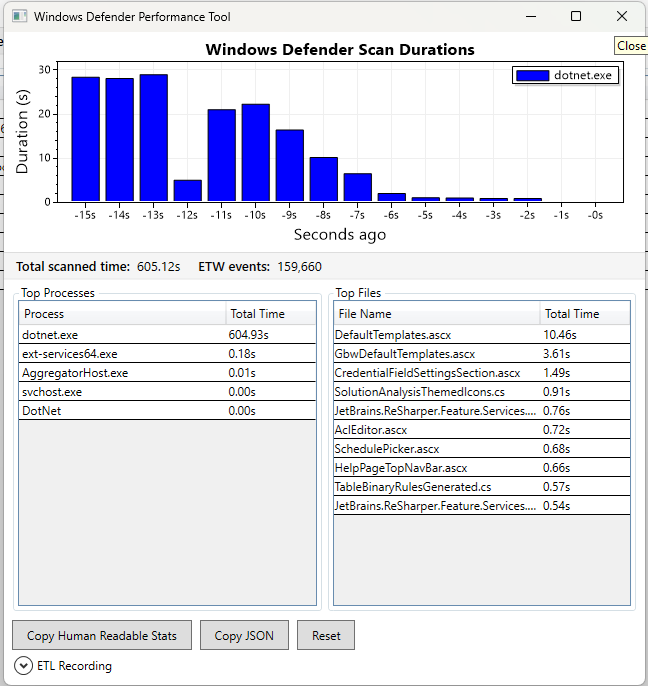
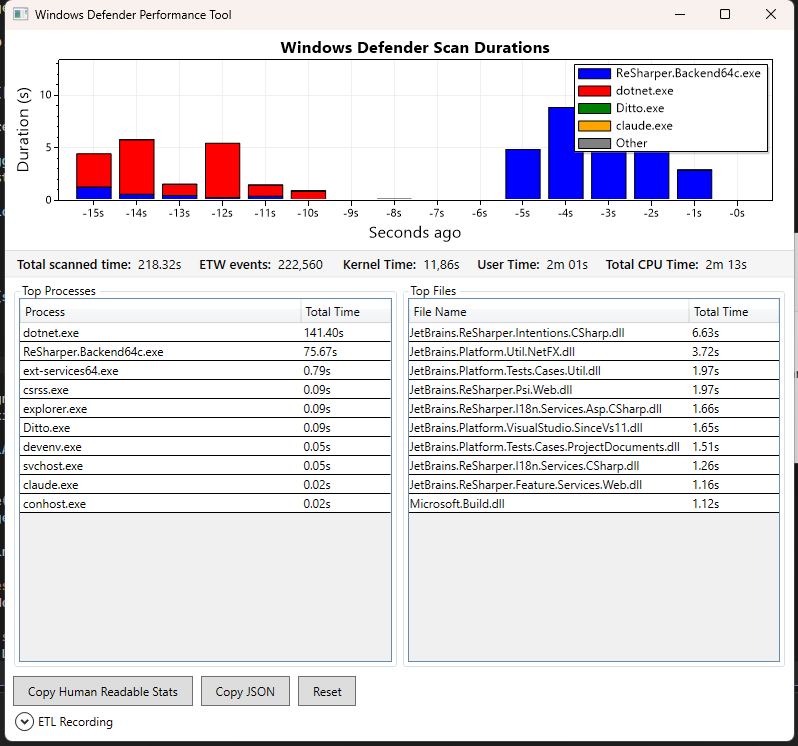
New feature: show CPU time

Changed region(s): [[0.0, 0.0, 1.0, 1.0], [0.8642, 0.0, 0.9259, 0.0306]]

diff --git a/src/MainWindow.xaml b/src/MainWindow.xaml
@@ -53,12 +53,51 @@
                     </StackPanel>
                 </Button>
 
-                <TextBlock FontSize="13" VerticalAlignment="Center">
-                    <Run Text="Total scanned time: " FontWeight="SemiBold"/>
-                    <Run Text="{Binding TotalScannedSeconds, StringFormat='{}{0:F2}s', Mode=OneWay}"/>
-                    <Run Text="    ETW events: " FontWeight="SemiBold"/>
-                    <Run Text="{Binding TotalEventsProcessed, StringFormat='{}{0:N0}', Mode=OneWay}"/>
-                </TextBlock>
+                <StackPanel Orientation="Horizontal" VerticalAlignment="Center">
+                    <TextBlock FontSize="13">
+                        <Run Text="Total scanned time: " FontWeight="SemiBold"/>
+                        <Run Text="{Binding TotalScannedSeconds, StringFormat='{}{0:F2}s', Mode=OneWay}"/>
+                        <Run Text="    ETW events: " FontWeight="SemiBold"/>
+                        <Run Text="{Binding TotalEventsProcessed, StringFormat='{}{0:N0}', Mode=OneWay}"/>
+                    </TextBlock>
+
+                    <!-- MsMpEng CPU times (shown when process is running and accessible) -->
+                    <TextBlock FontSize="13" Margin="20,0,0,0">
+                        <TextBlock.Style>
+                            <Style TargetType="TextBlock">
+                                <Setter Property="Visibility" Value="Collapsed"/>
+                                <Style.Triggers>
+                                    <DataTrigger Binding="{Binding CpuTimesAvailable}" Value="True">
+                                        <Setter Property="Visibility" Value="Visible"/>
+                                    </DataTrigger>
+                                </Style.Triggers>
+                            </Style>
+                        </TextBlock.Style>
+                        <Run Text="Kernel Time: " FontWeight="SemiBold"/>
+                        <Run Text="{Binding KernelTimeText, Mode=OneWay}"/>
+                        <Run Text="    User Time: " FontWeight="SemiBold"/>
+                        <Run Text="{Binding UserTimeText, Mode=OneWay}"/>
+                        <Run Text="    Total CPU Time: " FontWeight="SemiBold"/>
+                        <Run Text="{Binding TotalCpuTimeText, Mode=OneWay}"/>
+                    </TextBlock>
+
+                    <!-- Status message (not running / access denied / error) -->
+                    <TextBlock FontSize="13" Margin="20,0,0,0"
+                               Text="{Binding CpuStatusMessage, Mode=OneWay}"
+                               ToolTip="{Binding CpuStatusTooltip, Mode=OneWay}"
+                               Foreground="Gray">
+                        <TextBlock.Style>
+                            <Style TargetType="TextBlock">
+                                <Setter Property="Visibility" Value="Visible"/>
+                                <Style.Triggers>
+                                    <DataTrigger Binding="{Binding CpuTimesAvailable}" Value="True">
+                                        <Setter Property="Visibility" Value="Collapsed"/>
+                                    </DataTrigger>
+                                </Style.Triggers>
+                            </Style>
+                        </TextBlock.Style>
+                    </TextBlock>
+                </StackPanel>
             </DockPanel>
         </Border>
 

diff --git a/src/MainViewModel.cs b/src/MainViewModel.cs
@@ -14,6 +14,7 @@ using System.Windows;
 using System.Windows.Interop;
 using System.Windows.Media;
 using System.Windows.Media.Imaging;
+using System.Windows.Threading;
 using Microsoft.Win32;
 using Newtonsoft.Json;
 using ReactiveUI;
@@ -38,6 +39,9 @@ public class MainViewModel : ReactiveObject, IDisposable
     private IDisposable? _fileRawSubscription;
     private IDisposable? _statsSubscription;
     private EtwListener? _fileListener;
+    private readonly DispatcherTimer _cpuTimer;
+    private TimeSpan? _cpuKernelBaseline;
+    private TimeSpan? _cpuUserBaseline;
 
     // Stats (accessed only on main thread via ObserveOn)
     private readonly Dictionary<string, double> _processTotals = new();
@@ -57,6 +61,48 @@ public class MainViewModel : ReactiveObject, IDisposable
     {
         get => _totalEventsProcessed;
         private set => this.RaiseAndSetIfChanged(ref _totalEventsProcessed, value);
+    }
+
+    private bool _cpuTimesAvailable;
+    public bool CpuTimesAvailable
+    {
+        get => _cpuTimesAvailable;
+        private set => this.RaiseAndSetIfChanged(ref _cpuTimesAvailable, value);
+    }
+
+    private string _kernelTimeText = "";
+    public string KernelTimeText
+    {
+        get => _kernelTimeText;
+        private set => this.RaiseAndSetIfChanged(ref _kernelTimeText, value);
+    }
+
+    private string _userTimeText = "";
+    public string UserTimeText
+    {
+        get => _userTimeText;
+        private set => this.RaiseAndSetIfChanged(ref _userTimeText, value);
+    }
+
+    private string _totalCpuTimeText = "";
+    public string TotalCpuTimeText
+    {
+        get => _totalCpuTimeText;
+        private set => this.RaiseAndSetIfChanged(ref _totalCpuTimeText, value);
+    }
+
+    private string _cpuStatusMessage = "";
+    public string CpuStatusMessage
+    {
+        get => _cpuStatusMessage;
+        private set => this.RaiseAndSetIfChanged(ref _cpuStatusMessage, value);
+    }
+
+    private string? _cpuStatusTooltip;
+    public string? CpuStatusTooltip
+    {
+        get => _cpuStatusTooltip;
+        private set => this.RaiseAndSetIfChanged(ref _cpuStatusTooltip, value);
     }
 
     private bool _isRecording;
@@ -154,6 +200,11 @@ public class MainViewModel : ReactiveObject, IDisposable
         StopRecordingCommand = ReactiveCommand.Create(StopRecording, canStop);
         OpenEtlFileCommand = ReactiveCommand.Create(OpenEtlFile);
         RestartAsAdminCommand = ReactiveCommand.Create(RestartAsAdmin);
+
+        _cpuTimer = new DispatcherTimer { Interval = TimeSpan.FromSeconds(2) };
+        _cpuTimer.Tick += (_, __) => PollCpuTimes();
+        _cpuTimer.Start();
+        PollCpuTimes();
     }
 
     private void OnEvent(EventInfo info)
@@ -174,6 +225,42 @@ public class MainViewModel : ReactiveObject, IDisposable
         }
 
         RefreshTopLists();
+    }
+
+    private void PollCpuTimes()
+    {
+        switch (MsMpEngCpuInfo.Query())
+        {
+            case CpuTimesSuccess s:
+                if (_cpuKernelBaseline == null)
+                {
+                    _cpuKernelBaseline = s.KernelTime;
+                    _cpuUserBaseline = s.UserTime;
+                }
+                var kernel = s.KernelTime - _cpuKernelBaseline.Value;
+                var user = s.UserTime - _cpuUserBaseline!.Value;
+                KernelTimeText = MsMpEngCpuInfo.FormatTime(kernel);
+                UserTimeText = MsMpEngCpuInfo.FormatTime(user);
+                TotalCpuTimeText = MsMpEngCpuInfo.FormatTime(kernel + user);
+                CpuStatusTooltip = null;
+                CpuTimesAvailable = true;
+                break;
+            case CpuNotRunning:
+                CpuStatusMessage = "Windows Defender is not running";
+                CpuStatusTooltip = null;
+                CpuTimesAvailable = false;
+                break;
+            case CpuAccessDenied:
+                CpuStatusMessage = "Unable to query CPU: access denied";
+                CpuStatusTooltip = null;
+                CpuTimesAvailable = false;
+                break;
+            case CpuError e:
+                CpuStatusMessage = $"Unable to query CPU counters: {e.Message}";
+                CpuStatusTooltip = e.Source.ToString();
+                CpuTimesAvailable = false;
+                break;
+        }
     }
 
     private void RefreshTopLists()
@@ -208,6 +295,9 @@ public class MainViewModel : ReactiveObject, IDisposable
         TopProcesses.Clear();
         TopFiles.Clear();
         _plotter.Reset();
+        _cpuKernelBaseline = null;
+        _cpuUserBaseline = null;
+        PollCpuTimes();
     }
 
     private void CopyHumanReadable()
@@ -345,6 +435,7 @@ public class MainViewModel : ReactiveObject, IDisposable
 
     public void Dispose()
     {
+        _cpuTimer.Stop();
         _statsSubscription?.Dispose();
         _liveSubscription?.Dispose();
         _liveRawSubscription?.Dispose();

diff --git a/src/MsMpEngCpuInfo.cs b/src/MsMpEngCpuInfo.cs
@@ -1,0 +1,93 @@
+using System;
+using System.ComponentModel;
+using System.Diagnostics;
+using System.Runtime.InteropServices;
+
+namespace WindowsDefenderPerformanceTool;
+
+internal abstract record CpuQueryResult;
+internal sealed record CpuTimesSuccess(TimeSpan KernelTime, TimeSpan UserTime) : CpuQueryResult;
+internal sealed record CpuNotRunning() : CpuQueryResult;
+internal sealed record CpuAccessDenied() : CpuQueryResult;
+internal sealed record CpuError(string Message, Exception Source) : CpuQueryResult;
+
+internal static class MsMpEngCpuInfo
+{
+    private const uint PROCESS_QUERY_LIMITED_INFORMATION = 0x1000;
+
+    [StructLayout(LayoutKind.Sequential)]
+    private struct FILETIME
+    {
+        public uint dwLowDateTime;
+        public uint dwHighDateTime;
+
+        public TimeSpan ToTimeSpan() =>
+            TimeSpan.FromTicks(((long)dwHighDateTime << 32) | dwLowDateTime);
+    }
+
+    [DllImport("kernel32.dll", SetLastError = true)]
+    private static extern IntPtr OpenProcess(uint dwDesiredAccess, bool bInheritHandle, int dwProcessId);
+
+    [DllImport("kernel32.dll", SetLastError = true)]
+    private static extern bool CloseHandle(IntPtr hObject);
+
+    [DllImport("kernel32.dll", SetLastError = true)]
+    private static extern bool GetProcessTimes(
+        IntPtr hProcess,
+        out FILETIME lpCreationTime,
+        out FILETIME lpExitTime,
+        out FILETIME lpKernelTime,
+        out FILETIME lpUserTime);
+
+    public static CpuQueryResult Query()
+    {
+        Process[] procs;
+        try
+        {
+            procs = Process.GetProcessesByName("MsMpEng");
+        }
+        catch (Exception ex)
+        {
+            return new CpuError("process enumeration failed", ex);
+        }
+
+        if (procs.Length == 0)
+            return new CpuNotRunning();
+
+        int pid = procs[0].Id;
+        foreach (var p in procs) p.Dispose();
+
+        var handle = OpenProcess(PROCESS_QUERY_LIMITED_INFORMATION, false, pid);
+        if (handle == IntPtr.Zero)
+        {
+            int err = Marshal.GetLastWin32Error();
+            return err == 5 // ERROR_ACCESS_DENIED
+                ? new CpuAccessDenied()
+                : new CpuError($"OpenProcess failed (error {err})", new Win32Exception(err));
+        }
+
+        try
+        {
+            if (!GetProcessTimes(handle, out _, out _, out var kernel, out var user))
+            {
+                int err = Marshal.GetLastWin32Error();
+                return err == 5
+                    ? new CpuAccessDenied()
+                    : new CpuError($"GetProcessTimes failed (error {err})", new Win32Exception(err));
+            }
+
+            return new CpuTimesSuccess(kernel.ToTimeSpan(), user.ToTimeSpan());
+        }
+        finally
+        {
+            CloseHandle(handle);
+        }
+    }
+
+    public static string FormatTime(TimeSpan t)
+    {
+        if (t.TotalSeconds < 60) return $"{t.TotalSeconds:F2}s";
+        if (t.TotalMinutes < 60) return $"{(int)t.TotalMinutes}m {t.Seconds:D2}s";
+        return $"{(int)t.TotalHours}h {t.Minutes:D2}m {t.Seconds:D2}s";
+    }
+}
